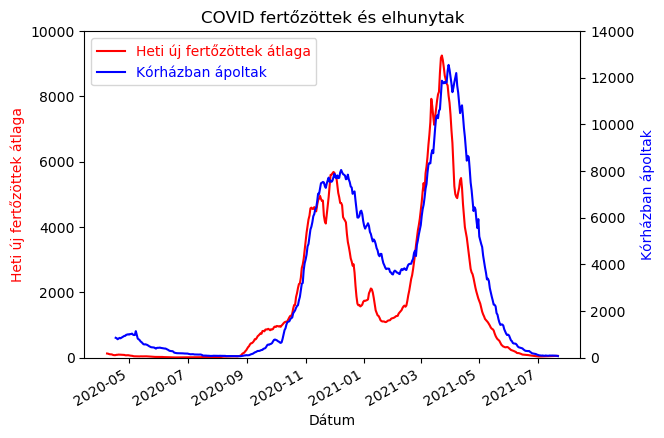
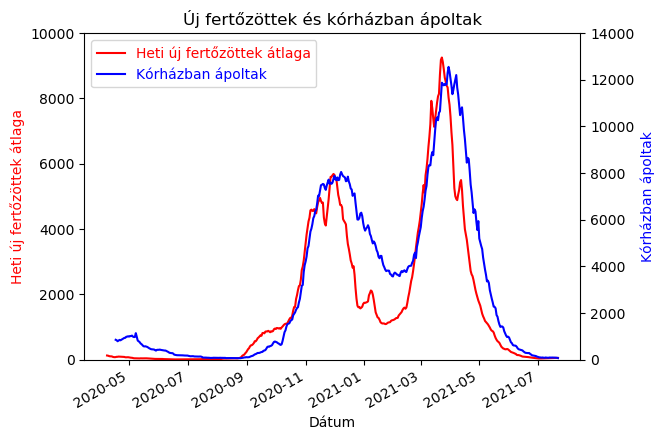
Cím javítása

diff --git a/kép_új_fertőzöttek_vs_kórházban_ápoltak.py b/kép_új_fertőzöttek_vs_kórházban_ápoltak.py
@@ -23,7 +23,7 @@ par = host.twinx()
 
 host.set_xlabel("Dátum")
 host.set_ylabel("Heti új fertőzöttek átlaga")
-host.set_title("COVID fertőzöttek és elhunytak")
+host.set_title("Új fertőzöttek és kórházban ápoltak")
 host.set_ylim([0, 10000])
 par.set_ylabel("Kórházban ápoltak")
 par.set_ylim([0, 14000])
